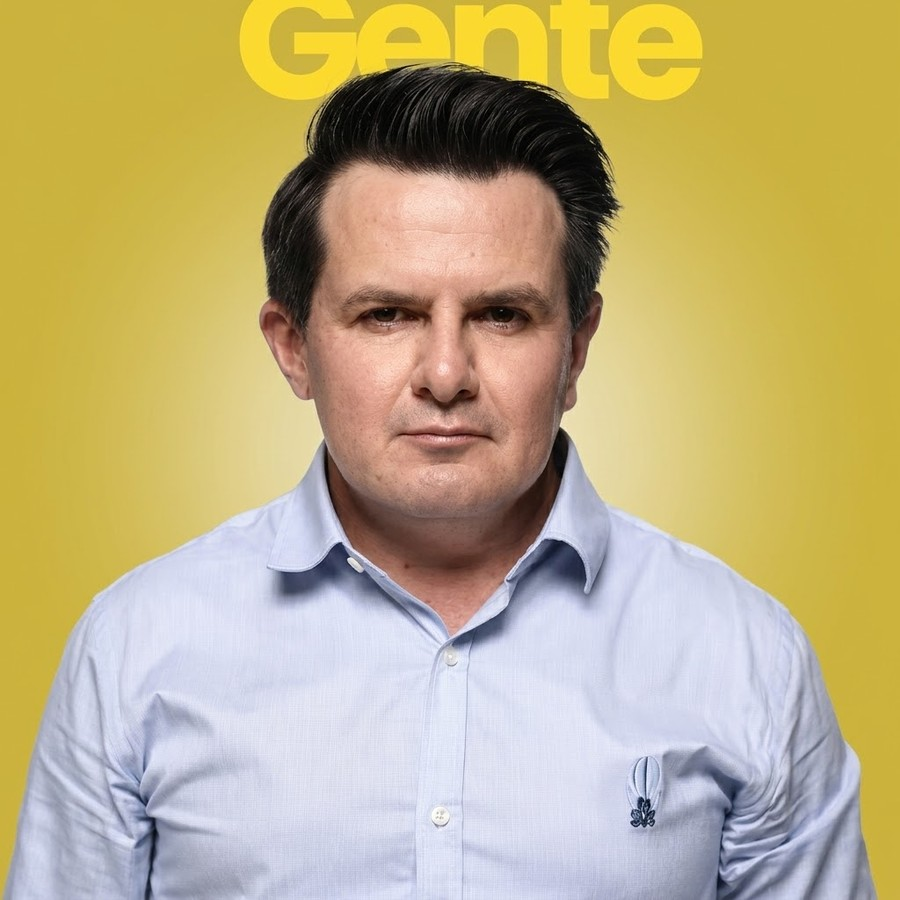
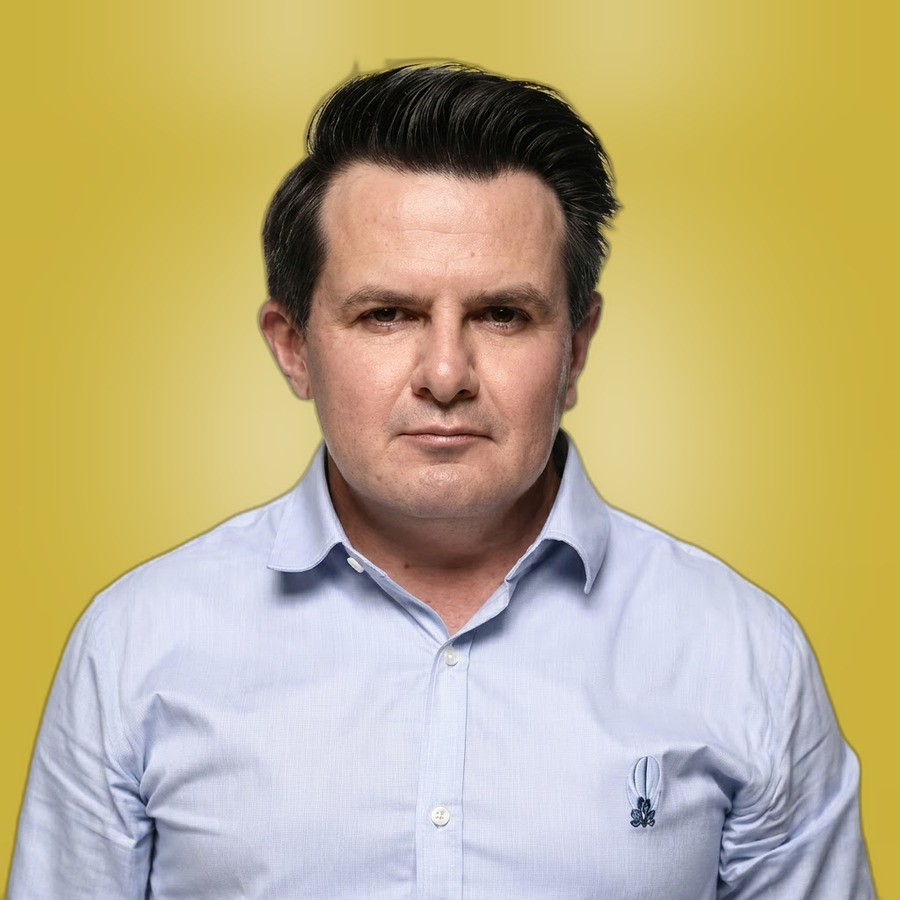
Corrige foto do Thiago Maldonado no site
- Preenche campo foto tambem em candidatos.html e candidato-template.html,
  que mantem copias proprias do cadastro (o commit anterior so alterou
  candidatos-data.js, usado pelas paginas de perfil via api/candidato.js)
- Reconstroi o fundo da foto removendo o texto 'Gente' da imagem original,
  que aparecia dentro do recorte circular do card

diff --git a/candidato-template.html b/candidato-template.html
@@ -684,7 +684,7 @@ const CANDIDATOS = [
   },
   {
     id: "thiago-maldonado", nome: "Thiago Maldonado", cargo: "estadual",
-    cargoLabel: "Deputado Estadual", cnpjCampanha: "68.578.093/0001-70", propagandaEleitoral: "PROPAGANDA ELEITORAL • CNPJ 68.578.093/0001-70", numero: "14700", cidade: "Paraná", foto: "",
+    cargoLabel: "Deputado Estadual", cnpjCampanha: "68.578.093/0001-70", propagandaEleitoral: "PROPAGANDA ELEITORAL • CNPJ 68.578.093/0001-70", numero: "14700", cidade: "Paraná", foto: "assets/candidatos/thiago-maldonado.jpg",
     instagram: "#",
     facebook: "", tiktok: "", youtube: "",
     cnpj: "68.578.093/0001-70",

diff --git a/candidatos.html b/candidatos.html
@@ -766,7 +766,7 @@ const CANDIDATOS = [
   },
   {
     id: "thiago-maldonado", nome: "Thiago Maldonado", cargo: "estadual",
-    cargoLabel: "Deputado Estadual", cnpjCampanha: "68.578.093/0001-70", propagandaEleitoral: "PROPAGANDA ELEITORAL • CNPJ 68.578.093/0001-70", numero: "14700", cidade: "Paraná", foto: "",
+    cargoLabel: "Deputado Estadual", cnpjCampanha: "68.578.093/0001-70", propagandaEleitoral: "PROPAGANDA ELEITORAL • CNPJ 68.578.093/0001-70", numero: "14700", cidade: "Paraná", foto: "assets/candidatos/thiago-maldonado.jpg",
     instagram: "#",
     facebook: "", tiktok: "", youtube: "",
     cnpj: "68.578.093/0001-70",
